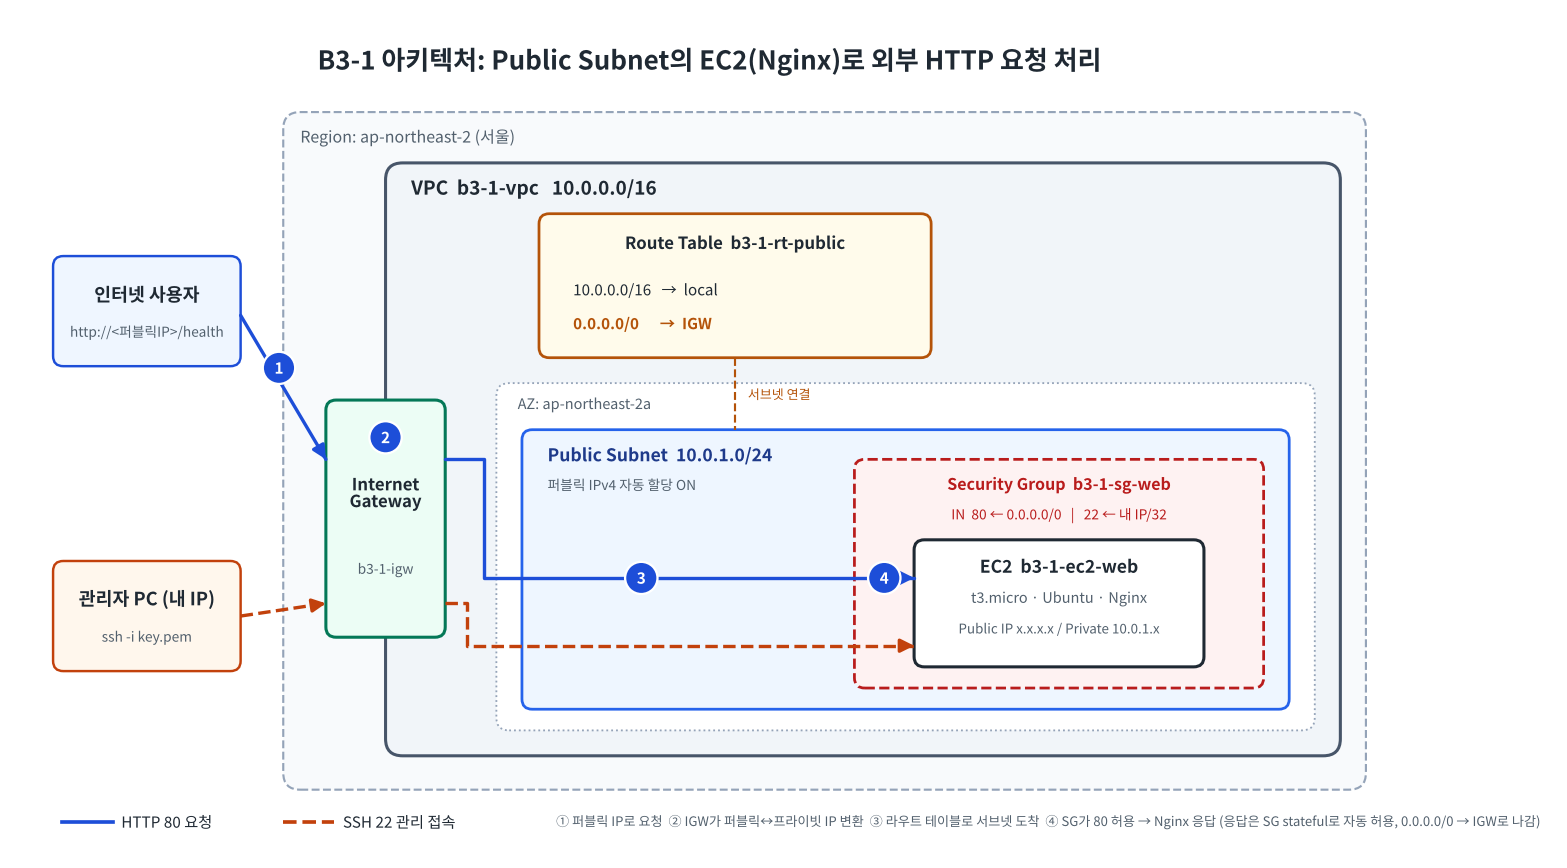
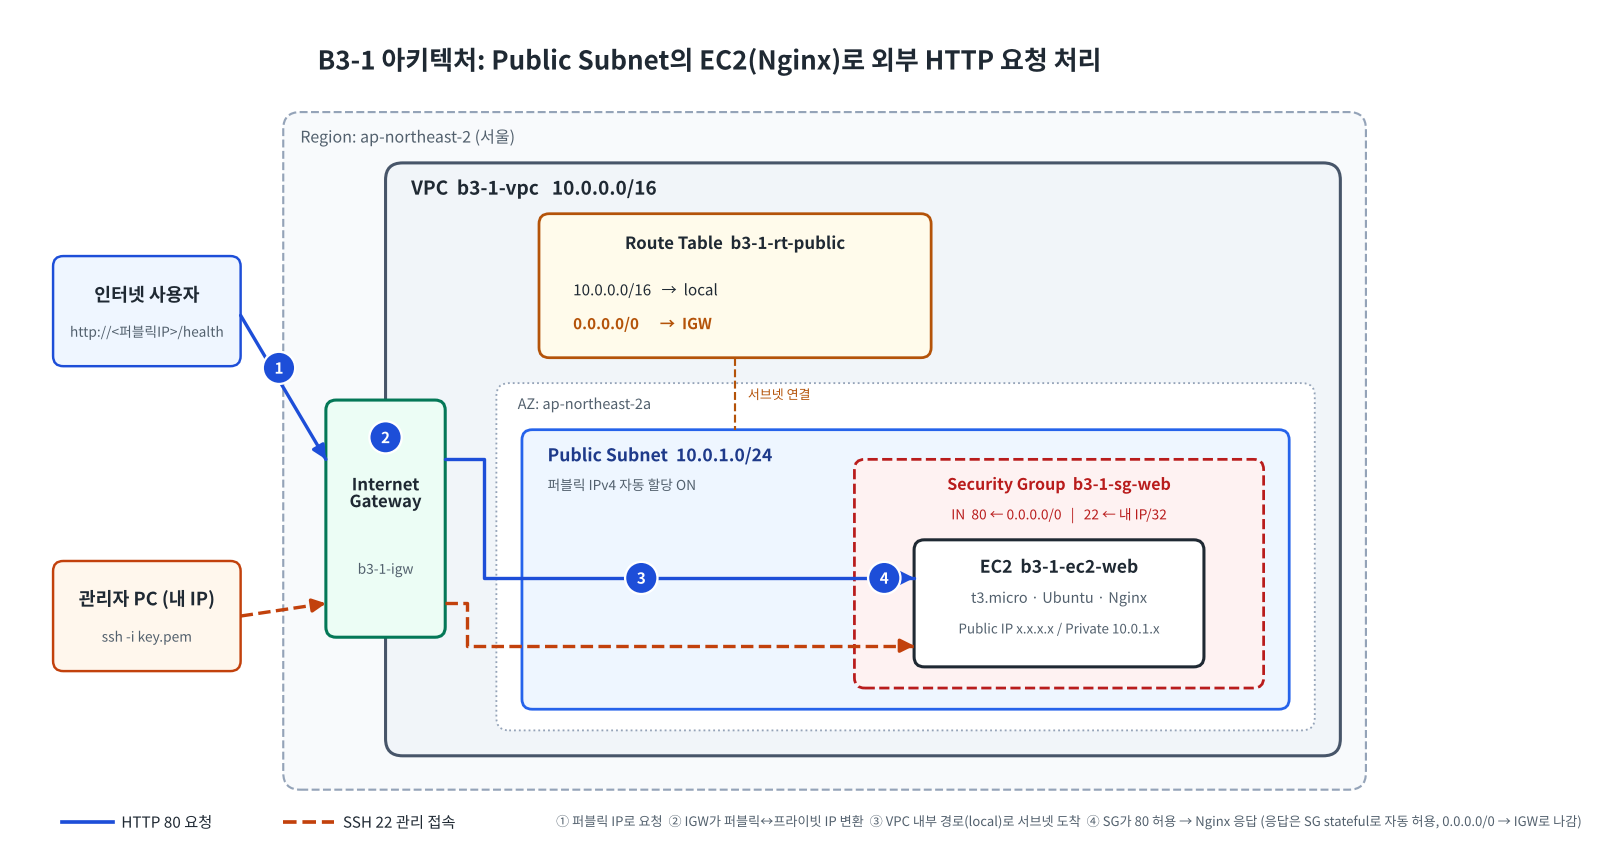
docs: show external access as a request/response round trip
- Redraw request_flow.svg as a sequence diagram with address translation
- Clarify that 0.0.0.0/0 -> IGW is used when the response leaves the VPC
- Fix the same wording in architecture.png caption and concepts.md

Claude-Session: https://claude.ai/code/session_01JN9LzRbnUDfHDngZLAqJpj

diff --git a/docs/concepts.md b/docs/concepts.md
@@ -8,13 +8,13 @@
 ## 0. 한 줄로 보는 전체 흐름
 
 ```
-사용자 브라우저
-  → (퍼블릭 IP) → Internet Gateway
-  → Route Table (0.0.0.0/0 ↔ IGW)
-  → Public Subnet
-  → Security Group (80 허용)
-  → EC2 (Nginx) → 응답
+요청: 내 PC → (퍼블릭 IP) → IGW(퍼블릭→프라이빗 IP 변환) → VPC 내부 경로(local) → Public Subnet
+      → Security Group(80 허용, 연결 기억) → EC2(Nginx)
+응답: EC2 → Security Group(기억된 연결이라 통과) → Route Table(0.0.0.0/0 → IGW)
+      → IGW(프라이빗→퍼블릭 IP 변환) → 내 PC
 ```
+
+Route Table의 `0.0.0.0/0 → IGW`는 **응답이 VPC 밖으로 나갈 때** 쓰인다. 그림은 [README의 외부 접속 흐름](../README.md#외부에서-접속할-때의-흐름-요청과-응답-왕복)을 본다.
 
 요청이 서버까지 가려면 **길(라우팅) + 주소(퍼블릭 IP) + 문(보안 그룹) + 받는 사람(웹 서버 프로세스)** 네 가지가 모두 있어야 한다.
 
